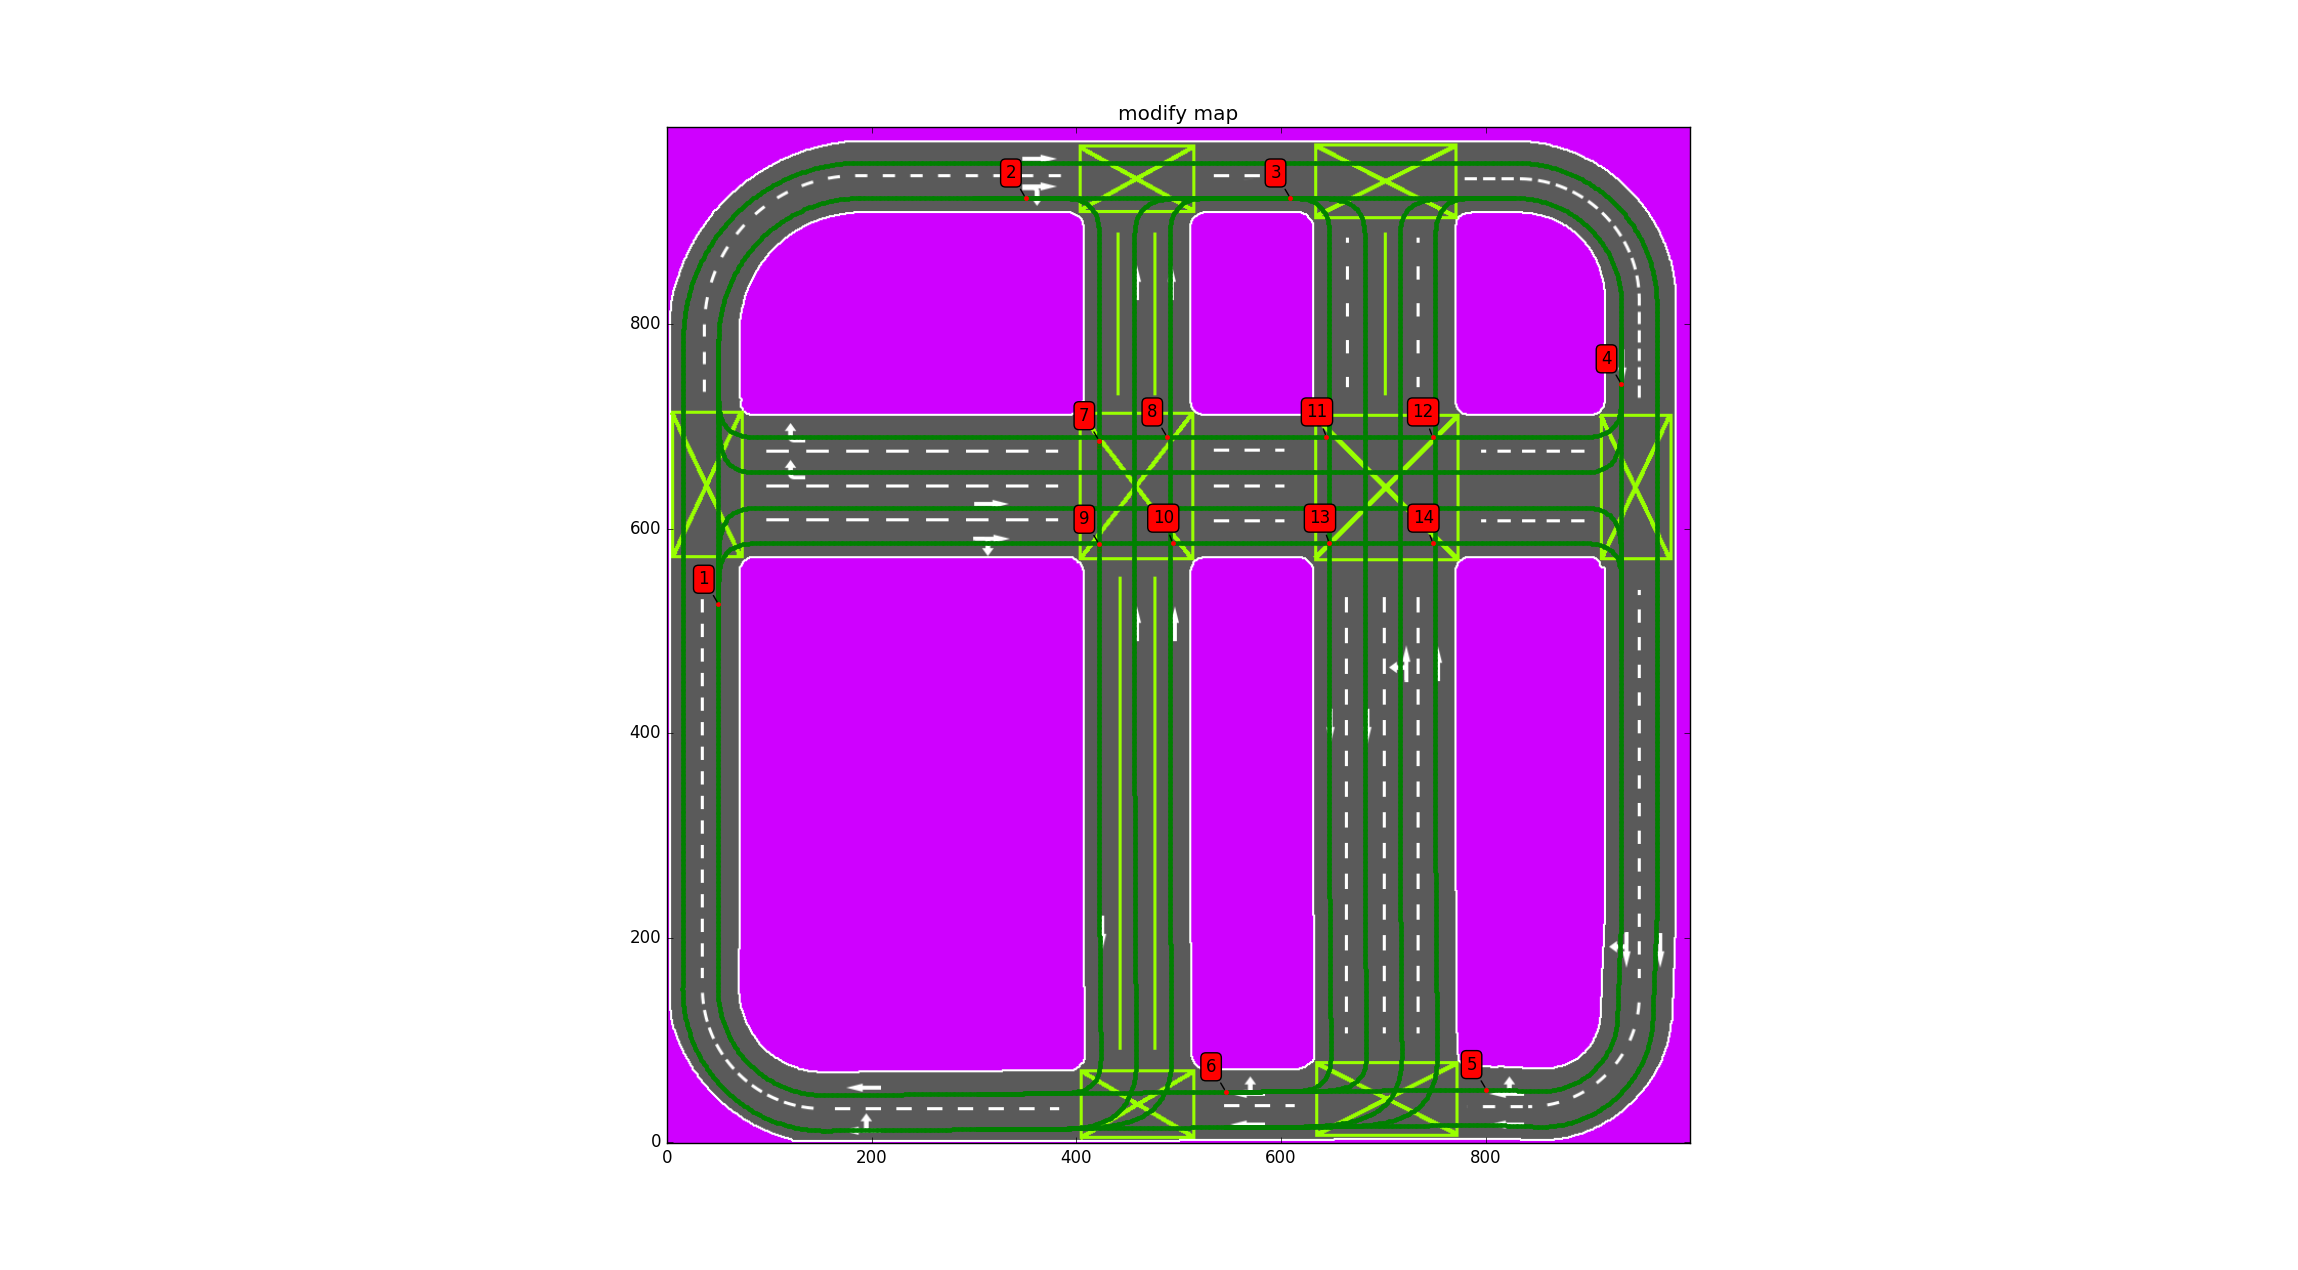
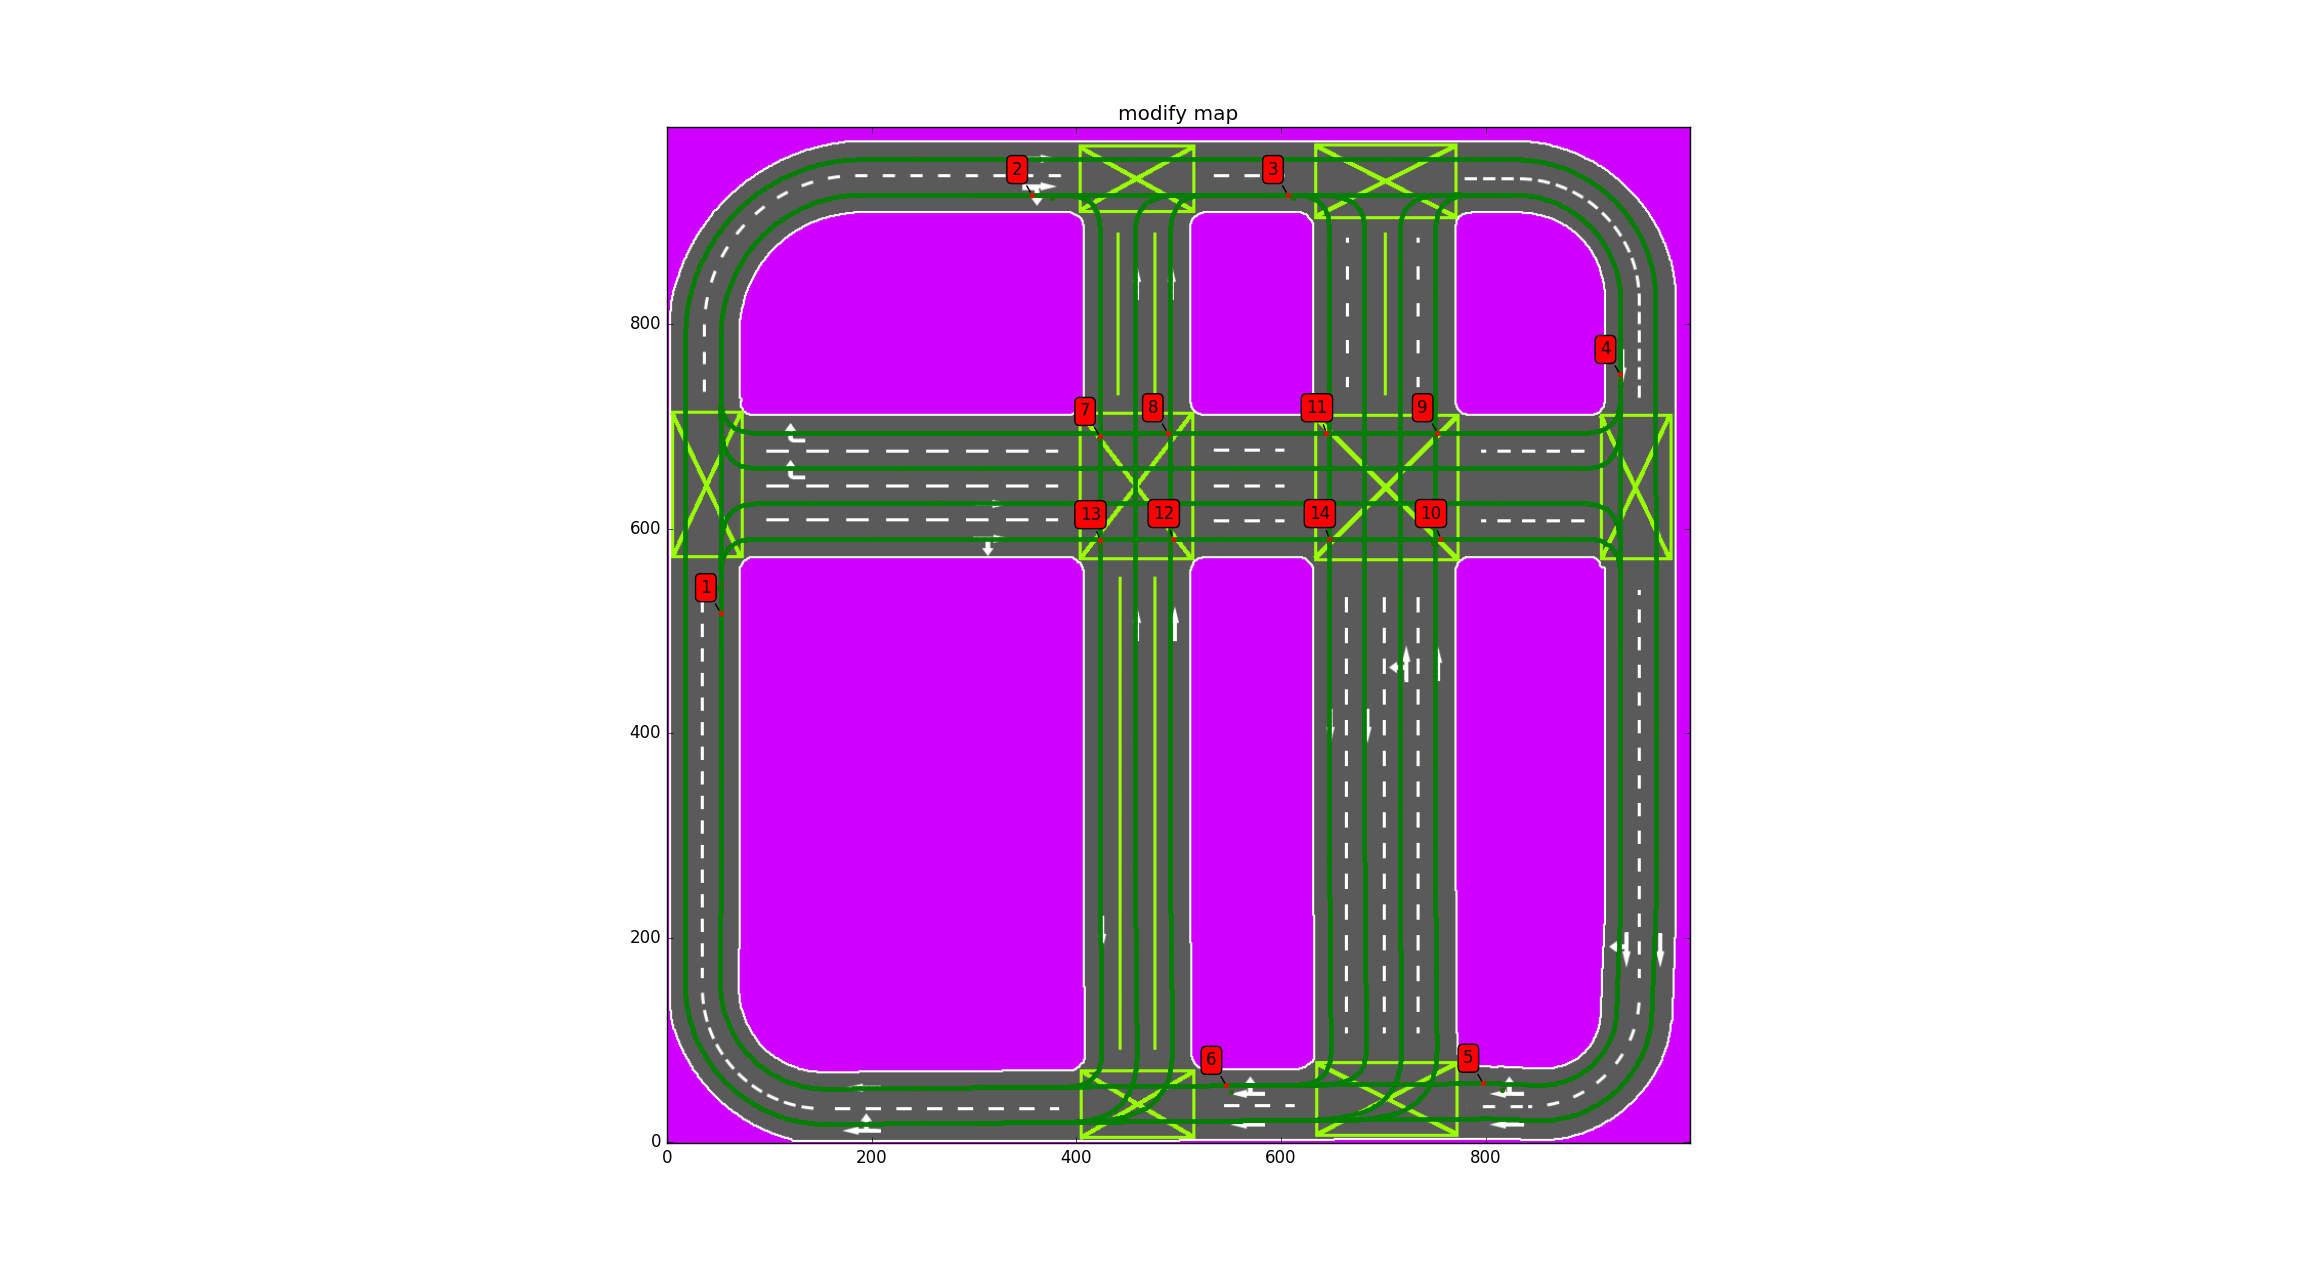
1.在connecting map中，增加取消选点功能 2.connecting_map中，搜寻功能改为'k'触发

diff --git a/map/interact_map.py b/map/interact_map.py
@@ -25,6 +25,9 @@ class prepareData:
       return False
     return True
 
+"""
+# 选择接续点的工具类
+"""
 class ModifyMap:
   def __init__(self, fig, gps_map, annt_dict, point_dict):
     self.map_tree = spt.KDTree(gps_map)
@@ -87,8 +90,7 @@ class ModifyMap:
 
   def onKeyPress(self, event):
     if event.key == 'v':
-      if self.road_id > 0:
-        print("saving data to file")
+      pass
     return
 
   def callBackConnect(self):
@@ -133,14 +135,102 @@ class ModifyMap:
     plt.plot(road_point[0], road_point[1], 'g.') # overwrite the point
     self.fig.canvas.draw()
 
+"""
+# 建立连通图的工具类
+"""
 class SetConnectMap:
-  def __init__(self, fig, gps_map, point_dict):
+  def __init__(self, fig, gps_map, points_dict):
     self.fig = fig
+    self.id_list = []
+    self.points_list = []
+    self.points_dict = points_dict
+    for _,ID in enumerate(points_dict):
+      self.id_list.append(ID)
+      self.points_list.append(points_dict[ID])
+    # print(self.id_list)
+    # print(self.points_list)
+    self.start_point = ()
+    self.end_point = ()
+    self.road_dict = {}
+    self.ref_line_dict = {}
+    self.road_id_list = [0]
+    return
+
+  def onKeyPress(self, event):
+    if event.values == 's':
+      if len(self.start_point) > 0 and len(self.end_point) > 0:
+        print("seek the ref_line!")
+        self.seekRefLine(self.start_point, self.end_point)
+        self.txt.remove()
+        self.fig.canvas.draw()
+
+
+  def onButtonPress(self, event):
+    if event.button != 1:
+      if len(self.end_point) > 0:
+        plt.plot(self.end_point[0], self.end_point[1], 'ro')
+        self.end_point = ()
+        self.txt.remove()
+        self.fig.canvas.draw()
+      else:
+        if len(self.start_point) > 0:
+          plt.plot(self.start_point[0], self.start_point[1], 'ro')
+          self.start_point = ()
+          self.fig.canvas.draw()
+
+  def onPick(self, event):
+    mouseevent = event.mouseevent
+
+    thisline = event.artist
+    xdata = thisline.get_xdata()
+    ydata = thisline.get_ydata()
+    ind = event.ind
+    points = tuple(zip(xdata[ind], ydata[ind]))
+    point = points[0]
+    if mouseevent.button == 1:
+      print(points[0])
+      if len(self.start_point) == 0:
+        self.start_point = point
+        plt.plot(point[0], point[1], 'bo')
+        self.fig.canvas.draw()
+      else:
+        if len(self.end_point) == 0:
+          self.end_point = point
+          plt.plot(point[0], point[1], 'bo')
+          self.txt = plt.text(self.end_point[0]+25, self.end_point[1], "Press 's' to seek, right click to repick", bbox=dict(facecolor='red', alpha=0.5))
+          self.fig.canvas.draw()
+
+  """
+  # 根据起点和终点，搜寻两点之间的参考点，并保存为参考点集
+  """
+  def seekRefLine(self, start_point, end_point):
+    ref_line = [] # 保存参考点坐标
+    
+    if len(ref_line) > 0: # 参考线存在
+      road_id = self.road_id_list[-1]+1      
+      self.road_id_list.append(road_id)
+      self.road_dict[road_id] = [start_point, end_point]
+      self.ref_line_dict[road_id] = ref_line
+    return len(ref_line)
+
+  def callBackConnect(self):
+    self.fig.canvas.mpl_connect('pick_event', self.onPick)
+    self.fig.canvas.mpl_connect('button_press_event', self.onButtonPress)
+    self.fig.canvas.mpl_connect('key_press_event', self.onKeyPress)
+    return
+
+  def callBackDisconnect(self):
+    self.fig.canvas.mpl_disconnect(self.onPick)
+    self.fig.canvas.mpl_disconnect(self.onButtonPress)
+    self.fig.canvas.mpl_disconnect(self.onKeyPress)
     return
 
 """##############################################
 """
 if __name__ == "__main__":
+  """#################################################################
+  # 准备进行接续点的选择
+  """
   direct = "../data/GPS_info/"
   filename = "map_point_data.csv"
 
@@ -148,9 +238,9 @@ if __name__ == "__main__":
   img1 = PIImg.open(direct+"zhenjiang.bmp")
   npimg1 = np.array(img1)
   npimg1 = npimg1[-1:0:-1,:,:]
-  scale = 8.65
-  bias = [-19, 0]
-  xyz_map = (xyz_map+bias)*scale # 针对镇江地图的偏移
+  scale = 1/0.116
+  bias = [18.75, -0.75]
+  xyz_map = (xyz_map-bias)*scale # 针对镇江地图的偏移
 
   # 读入已经保存的数据地图
   infile = open("point_id_list.csv", 'a+') 
@@ -177,11 +267,13 @@ if __name__ == "__main__":
   annt_dict = {}
   point_dict = {}
   if len(point_list)>0:
+    # 转换点集ID类型
     tmp_point_id_list = []
     for point_id in point_id_list:
       tmp_point_id_list.append(int(point_id))
     point_id_list = tmp_point_id_list
 
+    # 绘制标记点
     ax.plot(point_list[:,0], point_list[:,1], 'r.', picker=5)
     for i in range(len(point_list)):
       annt = ax.annotate("", xy = (0,0), xytext = (-20,20), textcoords = "offset pixels", 
@@ -192,6 +284,7 @@ if __name__ == "__main__":
       annt_dict[point_id_list[i]] = annt
       point_dict[point_id_list[i]] = tuple(point_list[i])
 
+    # 转换点集类型
     tmp_point_list = []
     for point in point_list:
       tmp_point_list.append(tuple(point))
@@ -200,15 +293,15 @@ if __name__ == "__main__":
     point_id_list = []
     point_list = []
 
-  map_modi = ModifyMap(fig, xyz_map, annt_dict, point_dict)
-  map_modi.callBackConnect()
-
+  # 显示并关联到选点程序
   ax.imshow(npimg1, origin = 'lower')
   ax.autoscale(False)
+  map_modi = ModifyMap(fig, xyz_map, annt_dict, point_dict)
+  map_modi.callBackConnect()
   plt.show()
 
+  # 断开连接，保存接续点数据
   map_modi.callBackDisconnect()
-
   if len(map_modi.road_point_id_list)>0:
     output = open('point_id_list.csv', 'w')
     try:
@@ -222,32 +315,46 @@ if __name__ == "__main__":
     finally:
       output.close()
   
-  # 读入已经保存的数据
-  point_id_list = np.loadtxt("point_id_list.csv", delimiter = ',', usecols = [0])
-  point_list = np.loadtxt('point_list.csv', delimiter = ',')  
-  # 改成int类型
-  tmp_point_id_list = []
-  for point_id in point_id_list:
-    tmp_point_id_list.append(int(point_id))
-  point_id_list = tmp_point_id_list
-  # 开始绘图
-  x = point_list[:,0]
-  y = point_list[:,1]
-  fig = plt.figure()
-  ax = fig.add_subplot(111)
-  # annotate
-  for i in range(len(point_list)):
-    annt = ax.annotate("", xy = (0,0), xytext = (-20,20), textcoords = "offset pixels", 
-                        bbox = dict(boxstyle = "round", fc = 'r'), arrowprops = dict(arrowstyle = "-"))
-    annt.set_text(str(point_id_list[i]))
-    annt.xy = point_list[i]
-    annt.set_visible(True)
-  ax.set_title('connecting map')
-  ax.plot(x, y, 'ro', picker = 5)
-  # 叠加图片
-  ax.imshow(npimg1, origin = 'lower')
-  ax.autoscale(False)
-  plt.show()
+  print("{} points".format(len(map_modi.road_point_id_list)))
 
-  # 开始
-  map_tree = spt.KDTree(xyz_map) # kd树
+  """#################################################################
+  # 准备进行连通图设计
+  """
+  if len(map_modi.road_point_id_list)>0:
+    # 读入已经保存的数据
+    point_id_list = np.loadtxt("point_id_list.csv", delimiter = ',', usecols = [0])
+    point_list = np.loadtxt('point_list.csv', delimiter = ',')  
+    # 改成int类型
+    tmp_point_id_list = []
+    for point_id in point_id_list:
+      tmp_point_id_list.append(int(point_id))
+    point_id_list = tmp_point_id_list
+    # 开始绘图
+    x = point_list[:,0]
+    y = point_list[:,1]
+    fig = plt.figure()
+    ax = fig.add_subplot(111)
+    # annotate
+    for i in range(len(point_list)):
+      annt = ax.annotate("", xy = (0,0), xytext = (-20,20), textcoords = "offset pixels", 
+                          bbox = dict(boxstyle = "round", fc = 'r'), arrowprops = dict(arrowstyle = "-"))
+      annt.set_text(str(point_id_list[i]))
+      annt.xy = point_list[i]
+      annt.set_visible(True)
+    ax.set_title('connecting map')
+    ax.plot(x, y, 'ro', picker = 10)
+    # 叠加图片
+    ax.imshow(npimg1, origin = 'lower')
+    ax.autoscale(False)
+
+    # 进入连接图处理
+    set_connect_map = SetConnectMap(fig, xyz_map, point_dict)
+    set_connect_map.callBackConnect()
+    plt.show()
+
+    set_connect_map.callBackDisconnect()
+
+    # 
+
+  ################  for debug
+    map_tree = spt.KDTree(xyz_map) # kd树
